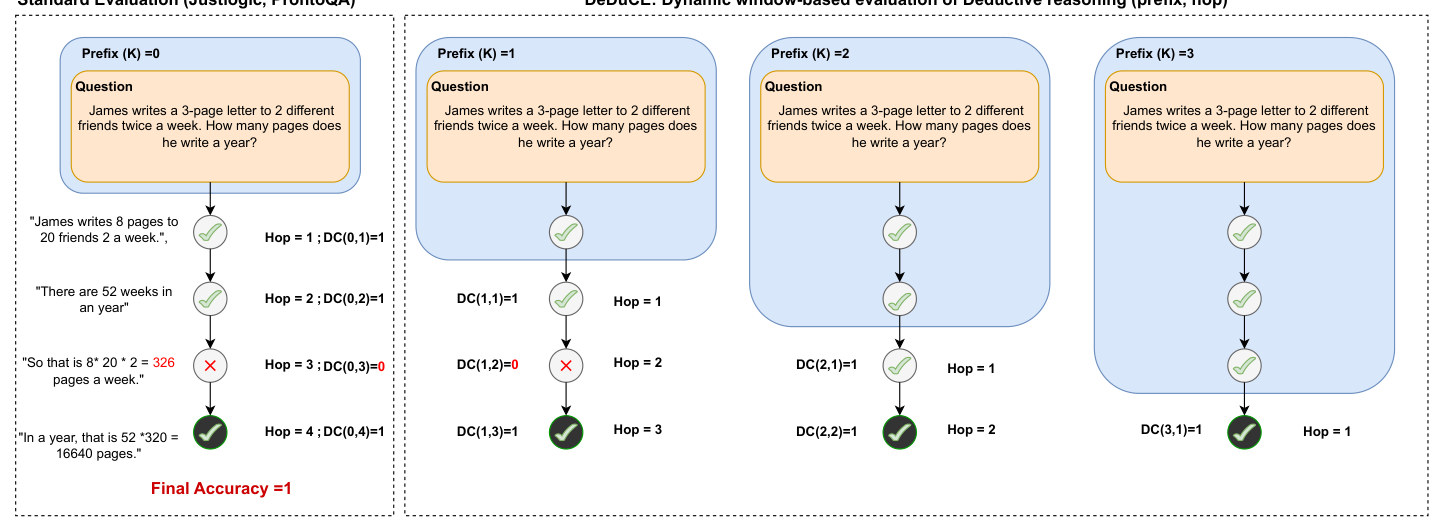
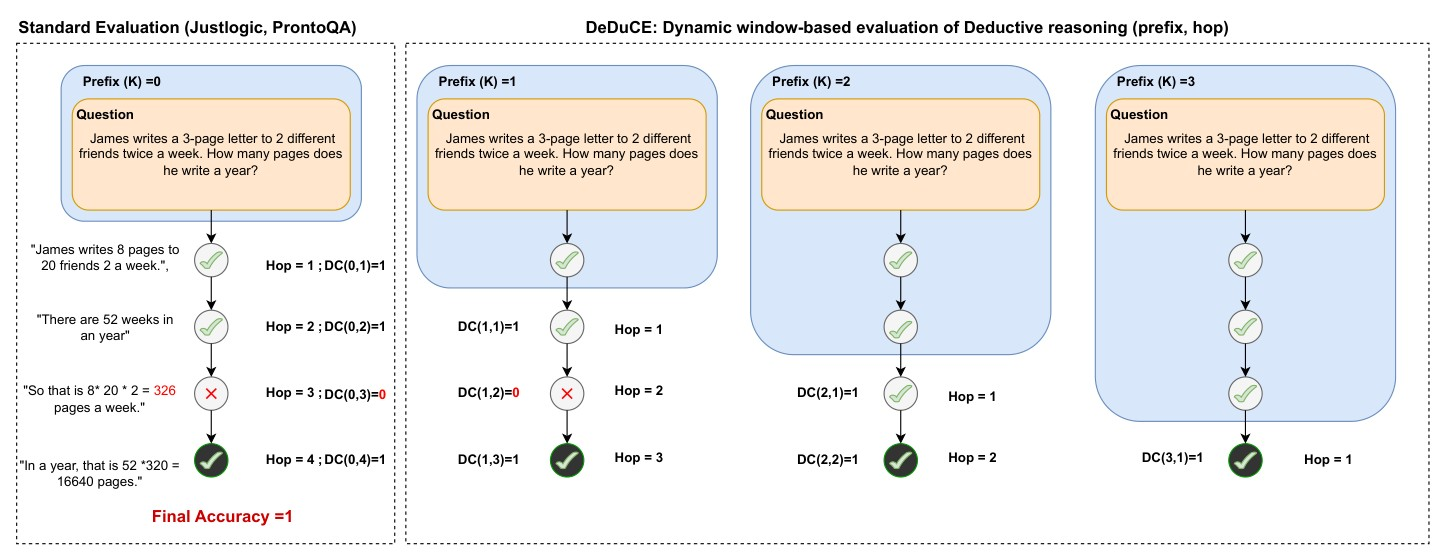
Use the OpenReview Figure 1 as the DeduCE blog card thumbnail; re-crop it with titles intact (#5)
Claude-Session: https://claude.ai/code/session_01XQ9MGZVykXgPwRyWkmmpcE

diff --git a/blog/deduce.html b/blog/deduce.html
@@ -81,7 +81,7 @@
     <p>Give the model the question plus a prefix of k reference steps, let it generate, and check step k + l. Vary k and you study premise understanding. Vary l and you study deductive inference. One problem now yields many evaluation instances instead of one final answer.</p>
 
     <figure class="paperfig">
-      <img src="../assets/blog/deduce/fig1-windows.jpg" alt="Figure 1 of the paper: standard evaluation on the left, and on the right the DeduCE windows for prefix 1, 2 and 3 with the DC(k,l) values" width="1444" height="531" loading="lazy">
+      <img src="../assets/blog/deduce/fig1-windows.jpg" alt="Figure 1 of the paper: standard evaluation on the left, and on the right the DeduCE windows for prefix 1, 2 and 3 with the DC(k,l) values" width="1445" height="560" loading="lazy">
       <figcaption><b>From the paper, Figure 1.</b> Standard accuracy-based evaluation checks only the final answer. DeduCE breaks the same solution into windows of (prefix, hop). The slip on step 3 (326 instead of 320) appears as DC(0,3) = 0 and DC(1,2) = 0, while the final answer stays correct.</figcaption>
     </figure>
 

diff --git a/css/style.css b/css/style.css
@@ -277,6 +277,8 @@ svg.sk text { user-select: none; -webkit-user-select: none; }
 .blog-card { display: flex; flex-direction: column; text-decoration: none; background: var(--card); border: 1px solid var(--border); border-radius: calc(var(--radius) + 4px); box-shadow: var(--shadow); overflow: hidden; transition: transform 0.15s, border-color 0.15s; }
 .blog-card:hover { transform: translateY(-3px) rotate(-0.3deg); border-color: var(--sk-ink); }
 .blog-card .thumb { background: var(--sk-bg); border-bottom: 1px solid var(--border); }
+.blog-card .thumb-fig { aspect-ratio: 800 / 520; display: flex; align-items: center; background: #fff; }
+.blog-card .thumb-fig img { width: 100%; height: auto; display: block; }
 .blog-card .thumb svg { display: block; width: 100%; height: auto; aspect-ratio: 800 / 520; }
 .blog-card .body { padding: 16px 18px 18px; display: flex; flex-direction: column; gap: 8px; flex: 1; }
 .blog-card h3 { font-size: 1.12rem; line-height: 1.3; letter-spacing: -0.01em; }

diff --git a/index.html b/index.html
@@ -154,7 +154,7 @@
             </div>
           </a>
           <a class="blog-card" href="blog/deduce.html">
-            <div class="thumb"><svg class="sk" data-thumb="deduce" viewBox="0 0 800 520" aria-hidden="true"></svg></div>
+            <div class="thumb thumb-fig"><img src="assets/blog/deduce/fig1-windows.jpg" alt="Figure 1 of the DeduCE paper: standard evaluation versus prefix and hop windows" loading="lazy"></div>
             <div class="body">
               <h3>Do language models reason, or just remember? Count the hops</h3>
               <p>A full walkthrough of the paper: grade a chain of thought like a proof, and watch consistency decay with hops rather than premises.</p>
